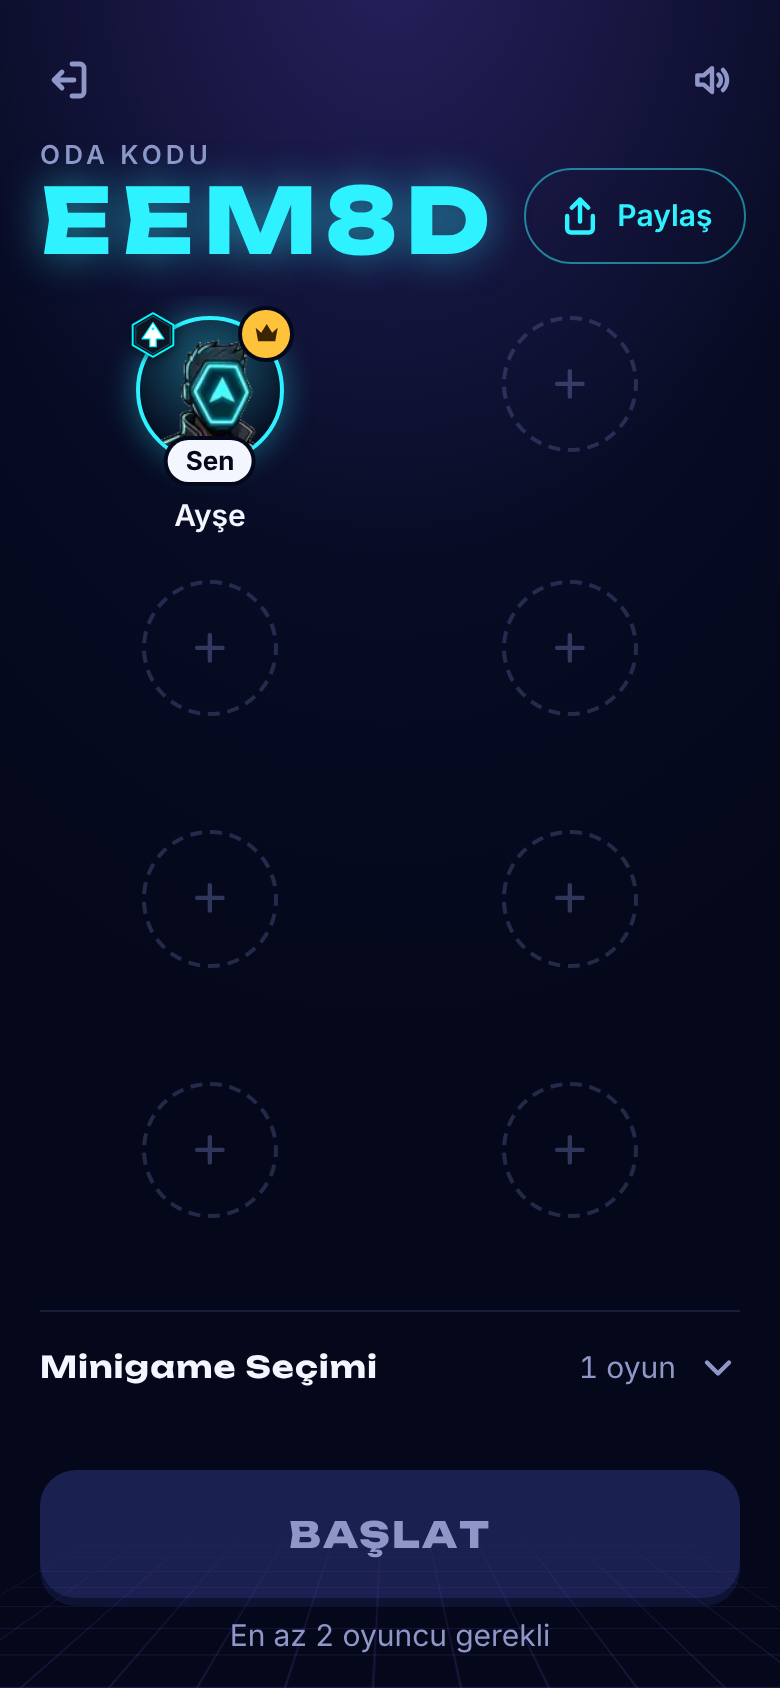
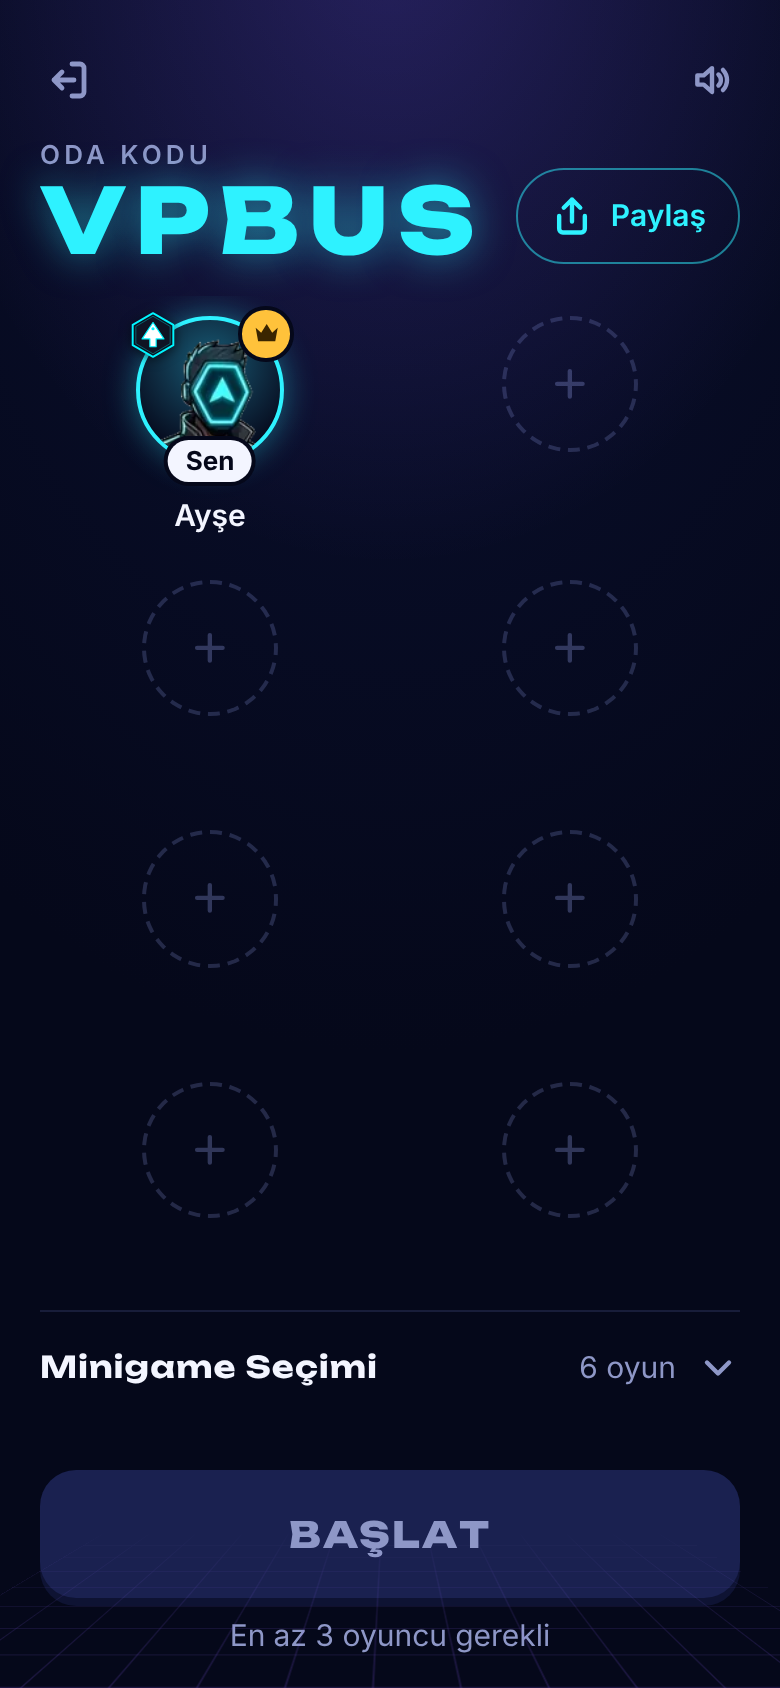
test: fix flaky Zaman Bombası room test; e2e selects games via the lobby
- zaman-bombasi-hafizasi.test.ts read results through the host, but the
  player it disconnects is the first in a random order and was the host
  ~1/3 of the time; observe through a player that stays connected
  (12/12 local runs pass)
- e2e: rooms now open with every game selected; the host deselects all
  but Butona Bas through the real accordion before checking the
  last-game guard
- merge cleanup: duplicated comment in resilience test

Claude-Session: https://claude.ai/code/session_01Seery4hrxKSJhpe6D1b9KA

Changed region(s): [[0.0615, 0.0924, 0.9538, 0.154], [0.7385, 0.8009, 0.7692, 0.8318]]

diff --git a/apps/server/src/zaman-bombasi-hafizasi.test.ts b/apps/server/src/zaman-bombasi-hafizasi.test.ts
@@ -28,7 +28,9 @@ describe("Zaman Bombası Hafızası: gerçek oda akışı", () => {
     k.clock.advance(3000);
     await until(() => host.room.phase === "playing", "playing");
 
-    const pub = () => host.room.match?.publicView as ZamanBombasiPublicView;
+    // Gözlemci: sonda bağlantısı kesilecek oyuncu (o0) host olabilir; okumalar o0 dışından yapılır.
+    let viewer: Client = host;
+    const pub = () => viewer.room.match?.publicView as ZamanBombasiPublicView;
     const byId = new Map(cs.map((c) => [c.session.playerId, c]));
     const goTo = (t: number) => k.clock.advance(Math.max(0, t - k.clock.now()));
 
@@ -37,6 +39,7 @@ describe("Zaman Bombası Hafızası: gerçek oda akışı", () => {
     expect(pub().order).toHaveLength(3);
     const [o0, o1, o2] = pub().order as [string, string, string];
     expect(pub().active).toBe(o0);
+    viewer = cs.find((c) => c.session.playerId !== o0) as Client;
 
     // Oynatma/hazırlık evresinde basış reddedilir.
     expect((await act(byId.get(o0) as Client, "mavi")).reason).toBe("not_input_yet");
@@ -74,21 +77,21 @@ describe("Zaman Bombası Hafızası: gerçek oda akışı", () => {
     expect(pub().active).toBe(o0);
     expect(pub().last).toMatchObject({ kind: "fail", player: o2, expected: seqNow[0] });
     expect(byId.get(o2)?.room.match?.view).toMatchObject({ isOut: true, myTurn: false });
-    expect(host.room.phase).toBe("playing");
+    expect(viewer.room.phase).toBe("playing");
 
     // Sıra 4: o0 hiç basmaz (bağlantısı koparmış gibi); süre dolunca elenir ve oyun biter (⌈3/2⌉ = 2).
     byId.get(o0)?.ws.terminate();
     await sync();
     goTo(pub().deadline - 200);
     await sync();
-    expect(host.room.phase).toBe("playing");
+    expect(viewer.room.phase).toBe("playing");
     goTo(pub().deadline + 50);
-    await until(() => host.room.phase === "results", "sonuçlar");
+    await until(() => viewer.room.phase === "results", "sonuçlar");
 
-    const result = host.room.match?.result;
+    const result = viewer.room.match?.result;
     expect(result?.miniScores).toEqual({ [o0]: 0, [o1]: 2, [o2]: -1 });
     expect(result?.awards).toEqual({ [o0]: 0, [o1]: 2, [o2]: -1 });
-    const scoreOf = (id: string) => host.room.players.find((p) => p.id === id)?.score;
+    const scoreOf = (id: string) => viewer.room.players.find((p) => p.id === id)?.score;
     expect([scoreOf(o0), scoreOf(o1), scoreOf(o2)]).toEqual([0, 2, -1]);
 
     // Sonuç ekranında da (izleyiciler dahil) oyun eylemi kabul edilmez.

diff --git a/apps/server/src/resilience.test.ts b/apps/server/src/resilience.test.ts
@@ -280,7 +280,6 @@ describe("zarif kapanış (drain)", () => {
     const drain = k.srv.drain().then(() => {
       drained = true;
     });
-    // maç (45 sn) sürerken drain bekler; süre (120 sn) dolunca maç bitmemiş olsa da çözülür
     // Maç sürerken drain çözülmez; maç ve sonuç ekranı bittiğinde ya da 120 sn dolunca çözülür.
     k.clock.advance(30_000);
     await sync();
